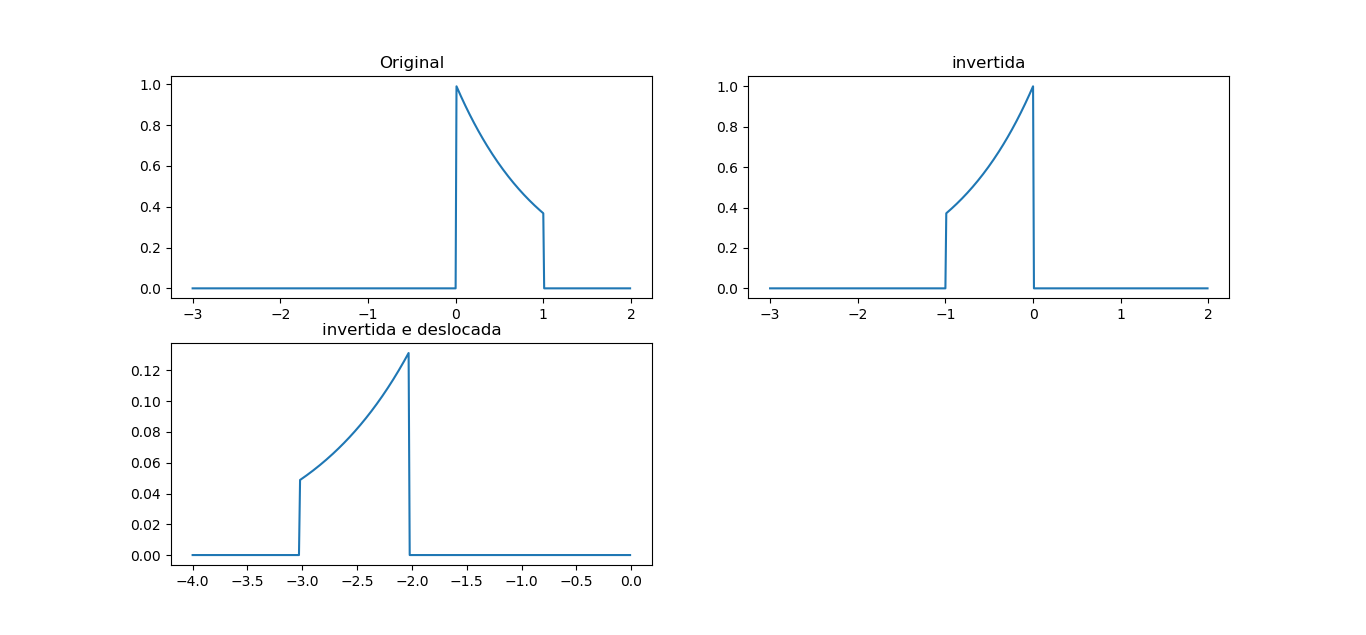
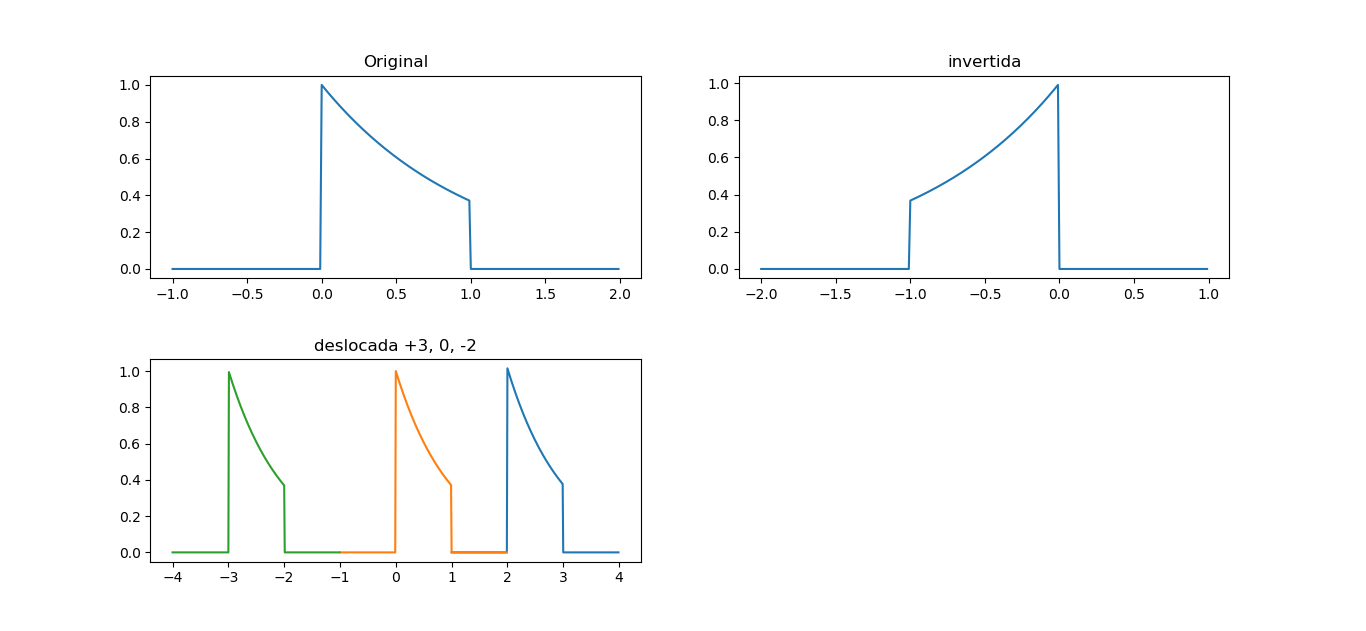
questoes 1,2,3a,3b,3c,6 adicionadas

diff --git a/q3a.py b/q3a.py
@@ -1,7 +1,7 @@
 
 # coding: utf-8
 
-# In[131]:
+# In[6]:
 
 
 #essas libs sao necessarias pra fazer os graficos e tals
@@ -16,11 +16,11 @@ def u_(t):
         return 0
 
 
-# In[132]:
+# In[7]:
 
 
 #o range dos vetores
-t = np.arange(-3, 2, 0.01) 
+t = np.arange(-1, 2, 0.01) 
 u = np.vectorize(u_) #isso aqui tem q usar a jordana nao lembra pq, mas tem que :b
 
 #original
@@ -31,18 +31,39 @@ plt.plot(t, xa) #plotando o grafico
 plt.title('Original')
 
 #invertida
+t = np.arange(-2, 1, 0.01) 
 xb = np.exp(t)*u(-t) - np.exp(t)*u(-t-1)
 plt.subplot(222)
 plt.plot(t, xb) #plotando o grafico
 plt.title('invertida')
 
 
-#invertida e deslocada
-t = np.arange(-4, 0, 0.01) 
-xc = np.exp(t)*u(-t-2.03) - np.exp(t)*u(-t-1-2.03)
+
+
+# In[76]:
+
+
+#deslocada -2
+t = np.arange(1, 4, 0.01) 
+xc = (np.exp(-t)*u(t-2) - np.exp(-t)*u(t-1-2))*7.5
 plt.subplot(223)
 plt.plot(t, xc) #plotando o grafico
-plt.title('invertida e deslocada')
+plt.title('deslocada -2')
+
+
+# In[54]:
+#original
+t = np.arange(-1, 2, 0.01) 
+xz = np.exp(-t)*u(t) - np.exp(-t)*u(t-1)
+plt.plot(t, xz) #plotando o grafico
+plt.title('Original')
+
+#deslocada 3
+t = np.arange(-4, -1, 0.01) 
+xd = (np.exp(-t)*u(t+3) - np.exp(-t)*u(t-1+3))*0.05
+#plt.subplot(224)
+plt.plot(t, xd) #plotando o grafico
+plt.title('deslocada +3, 0, -2')
 
 
 plt.show()

diff --git a/q3b.py b/q3b.py
@@ -1,0 +1,43 @@
+import numpy as np
+import matplotlib.pyplot as plt
+
+def u_(t):
+    if t>=0:
+        return 1
+    else:
+        return 0
+
+u = np.vectorize(u_)
+
+t = np.arange(-2, 2, 0.001)
+x1 = t * u(t + 1) - t * u(t - 1)
+plt.subplot(221)
+plt.title('original')
+plt.plot(t, x1)
+
+t = np.arange(-2, 2, 0.001)
+x2 = -(t * u(t + 1) - t * u(t - 1))
+plt.subplot(222)
+plt.title('refletido')
+plt.plot(t, x2)
+
+#deslocado 3 para esquerda
+t = np.arange(-7, 0, 0.01)
+x3 = (t+5)*u(t+6) - (t+5)*u(t+4)
+plt.subplot(212)
+plt.plot(t, x3)
+
+#deslocado 2 pra direita
+t = np.arange(-1, 7, 0.01)
+xd2 = (t-1)*u(t) - (t-1)*u(t-2)
+plt.plot(t, xd2)
+
+#deslocado 0
+t = np.arange(-2, 2, 0.001)
+x0 = t * u(t + 1) - t * u(t - 1)
+plt.plot(t, x0)
+
+plt.title('Deslocado 3, 0, -2')
+
+
+plt.show()

diff --git a/q3c.py b/q3c.py
@@ -9,8 +9,8 @@ def u_(t):
 
 u = np.vectorize(u_)
 t = np.arange(-1.0, 5.0, 0.01)
-xa = u(t-1) + 1*u(t-3) - 2*u(t-4)
 
+xa = u(t-1) + 1*u(t-3) - 2*u(t-4)
 plt.subplot(221)
 plt.title('original')
 plt.plot(t,xa)
@@ -21,10 +21,22 @@ plt.subplot(222)
 plt.title('Invertida')
 plt.plot(t,xb)
 
-t = np.arange(-8.0, 0.0, 0.01)
-xc = u(-t-1-2.03) + 1*u(-t-3-2.03) - 2*u(-t-4-2.03)
+
+
+t = np.arange(-5.0, 10, 0.01)
+
+#deslocada 0
+xc = u(t-1) + 1*u(t-3) - 2*u(t-4)
+
+#deslocada 3
+xd = u(t-1+3) + 1*u(t-3+3) - 2*u(t-4+3)
+
+#deslocada -2
+xe = u(t-1-2) + 1*u(t-3-2) - 2*u(t-4-2)
 plt.subplot(212)
-plt.title('Invertida e deslocada')
+plt.title('deslocada 3,0, -2')
 plt.step(t,xc)
+plt.step(t,xd)
+plt.step(t,xe)
 
 plt.show()

diff --git a/q2.py b/q2.py
@@ -12,14 +12,21 @@ u = np.vectorize(u_)
 
 xa = ((3 + t) * u(t + 3)) - ((2 + t) * u(t + 2)) - ((t + 1) * u(t + 1)) + ((t - 1) * u(t - 1)) + ((2*t - 4) * u(t - 2)) + ((-t*2 + 8) * u(t - 4))
 
-plt.subplot(211)
-plt.title('Questão 2 - letra a')
+
+
+plt.subplot(221)
+
+plt.ylabel('x(t)')
+plt.xlabel('t')
 plt.plot(t,xa)
+plt.title('2 a)')
 
 t = np.arange(-6.0, 9.0, 1)
 xb = (2*t)*u(t+3) - (2*(t-3))*u(t-3)
-plt.subplot(212)
+plt.subplot(222)
+plt.ylabel('y[n]')
+plt.xlabel('n')
 plt.stem(t, xb)
-plt.title('Questão 2 - letra b')
+plt.title('2 b)')
 
 plt.show()

diff --git a/q1.py b/q1.py
@@ -18,18 +18,18 @@ xd = (2*n**2)*u(-t) - (n+50)*u(-n-6) - (2*n**2-n-80)*u(-n-9)
 
 plt.subplot(221)
 plt.plot(t, xa)
-plt.title('Questão 1 - letra a')
+plt.title('1 (a)')
 
 plt.subplot(222)
 plt.step(t,xb) 
-plt.title('Questão 1 - letra b')
+plt.title('1 (b)')
 
 plt.subplot(223)
 plt.stem(t,xc)
-plt.title('Questão 1 - letra c')
+plt.title('1 (c)')
 
 plt.subplot(224)
 plt.stem(t,xd)
-plt.title('Questão 1 - letra d')
+plt.title('1 (d)')
 
 plt.show()

diff --git a/q6.py b/q6.py
@@ -8,7 +8,7 @@ def u_(t):
         return 0
 
 u = np.vectorize(u_)
-t = np.arange(-6,10.0, 1)
+t = np.arange(-7,10, 1)
 x1 = u(t) + 2*u(t-3) - 2*u(t-6) - u(t-6)
 plt.subplot(221)
 plt.stem(t,x1)

diff --git a/README.md b/README.md
@@ -1,1 +1,3 @@
 # sinais-t1
+Trabalho 1 da disciplina de Sistemas e Sinais do curso 
+de engenharia de computação da Universidade Federal de Pelotas
